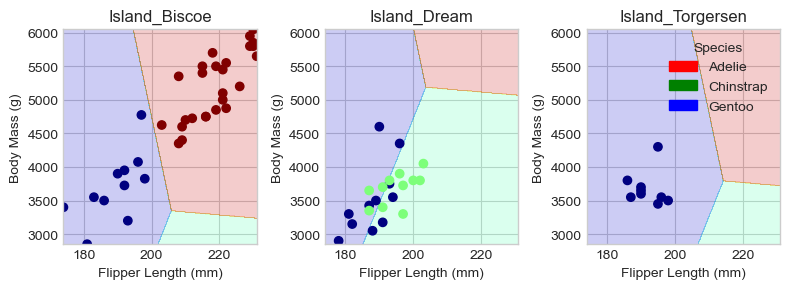
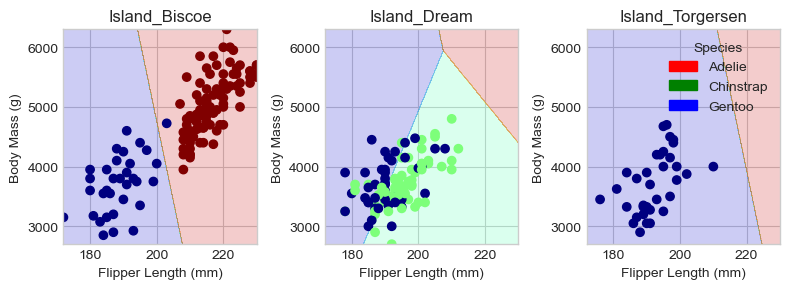
Rendered blog one

diff --git a/docs/posts/blog1/index.html b/docs/posts/blog1/index.html
@@ -129,7 +129,7 @@ background-size: cover;
 <link rel="stylesheet" href="../../styles.css">
 </head>
 
-<body class="nav-fixed fullcontent">
+<body class="nav-fixed">
 
 <div id="quarto-search-results"></div>
   <header id="quarto-header" class="headroom fixed-top quarto-banner">
@@ -204,26 +204,34 @@ background-size: cover;
   </header><div id="quarto-content" class="quarto-container page-columns page-rows-contents page-layout-article page-navbar">
 <!-- sidebar -->
 <!-- margin-sidebar -->
-    
+    <div id="quarto-margin-sidebar" class="sidebar margin-sidebar zindex-bottom">
+        
+    </div>
 <!-- main -->
-<main class="content quarto-banner-title-block" id="quarto-document-content">
+<main class="content quarto-banner-title-block page-columns page-full" id="quarto-document-content">
 
 
 
 
 
+<div class="quarto-figure quarto-figure-center page-columns page-full">
+<figure class="figure page-columns page-full">
+<p><img src="https://www.gabemednick.com/post/penguin/featured.png" class="img-fluid figure-img"></p>
+<figcaption class="margin-caption">Image source: @gabednick</figcaption>
+</figure>
+</div>
 <section id="abstract" class="level3">
 <h3 class="anchored" data-anchor-id="abstract">Abstract</h3>
-<p>In this blog post, I take the Palmer Penguins dataset and try to determine the best features to be used to determine the species of a penguin based on its measurements. Firstly, I create two tables…</p>
-<div id="cell-3" class="cell" data-execution_count="2">
+<p>In this blog post, I take the Palmer Penguins dataset and try to determine the best features to be used to determine the species of a penguin based on its measurements. Firstly, I create two figures and a table to analysize the relationships between features. Then I use sci-kit learns feature selection with chi-squared tests to pick 2 numerical features and 1 categorical feature. Then using those features, I train and test a logistic regression model. The model was fairly accurate but to understand the results better, I plot the decision regions and use a confusion matrix.</p>
+<div id="cell-2" class="cell" data-execution_count="18">
 <div class="sourceCode cell-code" id="cb1"><pre class="sourceCode python code-with-copy"><code class="sourceCode python"><span id="cb1-1"><a href="#cb1-1" aria-hidden="true" tabindex="-1"></a><span class="im">import</span> pandas <span class="im">as</span> pd</span>
 <span id="cb1-2"><a href="#cb1-2" aria-hidden="true" tabindex="-1"></a></span>
 <span id="cb1-3"><a href="#cb1-3" aria-hidden="true" tabindex="-1"></a>train_url <span class="op">=</span> <span class="st">"https://raw.githubusercontent.com/PhilChodrow/ml-notes/main/data/palmer-penguins/train.csv"</span></span>
 <span id="cb1-4"><a href="#cb1-4" aria-hidden="true" tabindex="-1"></a>train <span class="op">=</span> pd.read_csv(train_url)</span></code><button title="Copy to Clipboard" class="code-copy-button"><i class="bi"></i></button></pre></div>
 </div>
-<div id="cell-4" class="cell" data-execution_count="3">
+<div id="cell-3" class="cell" data-execution_count="19">
 <div class="sourceCode cell-code" id="cb2"><pre class="sourceCode python code-with-copy"><code class="sourceCode python"><span id="cb2-1"><a href="#cb2-1" aria-hidden="true" tabindex="-1"></a>train.head()</span></code><button title="Copy to Clipboard" class="code-copy-button"><i class="bi"></i></button></pre></div>
-<div class="cell-output cell-output-display" data-execution_count="3">
+<div class="cell-output cell-output-display" data-execution_count="19">
 <div>
 
 
@@ -361,7 +369,7 @@ background-size: cover;
 <section id="data-preparation" class="level3">
 <h3 class="anchored" data-anchor-id="data-preparation">Data Preparation</h3>
 <p>This is code from Professor Phil’s website. It removes the columns that we don’t use and NA values, converts the categorical feature columns into “one-hot encoded” 0-1 columns and saves the dataframe X_train. Also, “Species” is coded with the LabelEncoder and is saved as y_train.</p>
-<div id="cell-6" class="cell" data-execution_count="4">
+<div id="cell-5" class="cell" data-execution_count="20">
 <div class="sourceCode cell-code" id="cb3"><pre class="sourceCode python code-with-copy"><code class="sourceCode python"><span id="cb3-1"><a href="#cb3-1" aria-hidden="true" tabindex="-1"></a><span class="im">from</span> sklearn.preprocessing <span class="im">import</span> LabelEncoder</span>
 <span id="cb3-2"><a href="#cb3-2" aria-hidden="true" tabindex="-1"></a>le <span class="op">=</span> LabelEncoder()</span>
 <span id="cb3-3"><a href="#cb3-3" aria-hidden="true" tabindex="-1"></a>le.fit(train[<span class="st">"Species"</span>])</span>
@@ -378,9 +386,9 @@ background-size: cover;
 <span id="cb3-14"><a href="#cb3-14" aria-hidden="true" tabindex="-1"></a>X_train, y_train <span class="op">=</span> prepare_data(train)</span></code><button title="Copy to Clipboard" class="code-copy-button"><i class="bi"></i></button></pre></div>
 </div>
 <p>We can check what the columns look like now.</p>
-<div id="cell-8" class="cell" data-execution_count="143">
+<div id="cell-7" class="cell" data-execution_count="21">
 <div class="sourceCode cell-code" id="cb4"><pre class="sourceCode python code-with-copy"><code class="sourceCode python"><span id="cb4-1"><a href="#cb4-1" aria-hidden="true" tabindex="-1"></a>X_train.head()</span></code><button title="Copy to Clipboard" class="code-copy-button"><i class="bi"></i></button></pre></div>
-<div class="cell-output cell-output-display" data-execution_count="143">
+<div class="cell-output cell-output-display" data-execution_count="21">
 <div>
 
 
@@ -499,34 +507,40 @@ background-size: cover;
 </section>
 <section id="data-visualization" class="level3">
 <h3 class="anchored" data-anchor-id="data-visualization">Data Visualization</h3>
-<p>I created two graphs each 2 quantative columns and 1 qualitative columns. Plot 1 shows the relationship with the body mass and flipper length in penguins on different islands. Plot 2 shows the difference in Culmen Length and depth between male and female penguins.</p>
-<div id="cell-10" class="cell">
-<div class="sourceCode cell-code" id="cb5"><pre class="sourceCode python code-with-copy"><code class="sourceCode python"><span id="cb5-1"><a href="#cb5-1" aria-hidden="true" tabindex="-1"></a><span class="im">from</span> matplotlib <span class="im">import</span> pyplot <span class="im">as</span> plt</span>
-<span id="cb5-2"><a href="#cb5-2" aria-hidden="true" tabindex="-1"></a><span class="im">import</span> seaborn <span class="im">as</span> sns</span>
-<span id="cb5-3"><a href="#cb5-3" aria-hidden="true" tabindex="-1"></a>plt.style.use(<span class="st">'seaborn-v0_8-whitegrid'</span>)</span>
-<span id="cb5-4"><a href="#cb5-4" aria-hidden="true" tabindex="-1"></a></span>
-<span id="cb5-5"><a href="#cb5-5" aria-hidden="true" tabindex="-1"></a>fig, ax <span class="op">=</span> plt.subplots(<span class="dv">1</span>, <span class="dv">2</span>, figsize <span class="op">=</span> (<span class="dv">8</span>, <span class="fl">3.5</span>))</span>
-<span id="cb5-6"><a href="#cb5-6" aria-hidden="true" tabindex="-1"></a></span>
-<span id="cb5-7"><a href="#cb5-7" aria-hidden="true" tabindex="-1"></a><span class="co"># Get the unencoded columns for easier graphing.</span></span>
-<span id="cb5-8"><a href="#cb5-8" aria-hidden="true" tabindex="-1"></a>qual <span class="op">=</span> train[[<span class="st">"Island"</span>, <span class="st">"Sex"</span>]].dropna()</span>
-<span id="cb5-9"><a href="#cb5-9" aria-hidden="true" tabindex="-1"></a></span>
-<span id="cb5-10"><a href="#cb5-10" aria-hidden="true" tabindex="-1"></a>p1 <span class="op">=</span> sns.scatterplot(X_train, x <span class="op">=</span> <span class="st">"Body Mass (g)"</span>, y <span class="op">=</span> <span class="st">"Flipper Length (mm)"</span>, hue<span class="op">=</span> qual[<span class="st">"Island"</span>], ax <span class="op">=</span> ax[<span class="dv">0</span>])</span>
-<span id="cb5-11"><a href="#cb5-11" aria-hidden="true" tabindex="-1"></a>p2 <span class="op">=</span> sns.scatterplot(X_train, x <span class="op">=</span> <span class="st">"Culmen Length (mm)"</span>, y <span class="op">=</span> <span class="st">"Culmen Depth (mm)"</span>, hue<span class="op">=</span>y_train, ax <span class="op">=</span> ax[<span class="dv">1</span>])</span></code><button title="Copy to Clipboard" class="code-copy-button"><i class="bi"></i></button></pre></div>
+<p>I created two graphs each 2 quantative columns and 1 qualitative columns. Plot 1 shows the relationship with the body mass and flipper length between different penguin species. Plot 2 shows the difference in Culmen Length and depth across different penguin species.</p>
+<div id="cell-9" class="cell" data-execution_count="22">
+<div class="sourceCode cell-code" id="cb5"><pre class="sourceCode python code-with-copy"><code class="sourceCode python"><span id="cb5-1"><a href="#cb5-1" aria-hidden="true" tabindex="-1"></a><span class="co"># Get the unencoded columns for easier graphing.</span></span>
+<span id="cb5-2"><a href="#cb5-2" aria-hidden="true" tabindex="-1"></a>qual <span class="op">=</span> train[[<span class="st">"Island"</span>, <span class="st">"Sex"</span>, <span class="st">"Species"</span>]].dropna()</span>
+<span id="cb5-3"><a href="#cb5-3" aria-hidden="true" tabindex="-1"></a></span>
+<span id="cb5-4"><a href="#cb5-4" aria-hidden="true" tabindex="-1"></a><span class="co"># Shorten species label for the legend</span></span>
+<span id="cb5-5"><a href="#cb5-5" aria-hidden="true" tabindex="-1"></a>qual[<span class="st">"Species"</span>] <span class="op">=</span> qual[<span class="st">"Species"</span>].<span class="bu">apply</span>(<span class="kw">lambda</span> x: <span class="st">"Chinstrap"</span> <span class="cf">if</span> x <span class="op">==</span> <span class="st">"Chinstrap penguin (Pygoscelis antarctica)"</span> </span>
+<span id="cb5-6"><a href="#cb5-6" aria-hidden="true" tabindex="-1"></a>                                         <span class="cf">else</span> (<span class="st">"Gentoo"</span> <span class="cf">if</span> x <span class="op">==</span> <span class="st">"Gentoo penguin (Pygoscelis papua)"</span> </span>
+<span id="cb5-7"><a href="#cb5-7" aria-hidden="true" tabindex="-1"></a>                                               <span class="cf">else</span> <span class="st">"Adelie"</span>))</span></code><button title="Copy to Clipboard" class="code-copy-button"><i class="bi"></i></button></pre></div>
+</div>
+<div id="cell-10" class="cell" data-execution_count="23">
+<div class="sourceCode cell-code" id="cb6"><pre class="sourceCode python code-with-copy"><code class="sourceCode python"><span id="cb6-1"><a href="#cb6-1" aria-hidden="true" tabindex="-1"></a><span class="im">from</span> matplotlib <span class="im">import</span> pyplot <span class="im">as</span> plt</span>
+<span id="cb6-2"><a href="#cb6-2" aria-hidden="true" tabindex="-1"></a><span class="im">import</span> seaborn <span class="im">as</span> sns</span>
+<span id="cb6-3"><a href="#cb6-3" aria-hidden="true" tabindex="-1"></a>plt.style.use(<span class="st">'seaborn-v0_8-whitegrid'</span>)</span>
+<span id="cb6-4"><a href="#cb6-4" aria-hidden="true" tabindex="-1"></a></span>
+<span id="cb6-5"><a href="#cb6-5" aria-hidden="true" tabindex="-1"></a>fig, ax <span class="op">=</span> plt.subplots(<span class="dv">1</span>, <span class="dv">2</span>, figsize <span class="op">=</span> (<span class="dv">10</span>, <span class="dv">4</span>))</span>
+<span id="cb6-6"><a href="#cb6-6" aria-hidden="true" tabindex="-1"></a>   </span>
+<span id="cb6-7"><a href="#cb6-7" aria-hidden="true" tabindex="-1"></a>p1 <span class="op">=</span> sns.scatterplot(X_train, x <span class="op">=</span> <span class="st">"Body Mass (g)"</span>, y <span class="op">=</span> <span class="st">"Flipper Length (mm)"</span>, hue<span class="op">=</span>qual[<span class="st">"Species"</span>], ax <span class="op">=</span> ax[<span class="dv">0</span>])</span>
+<span id="cb6-8"><a href="#cb6-8" aria-hidden="true" tabindex="-1"></a>p2 <span class="op">=</span> sns.scatterplot(X_train, x <span class="op">=</span> <span class="st">"Culmen Length (mm)"</span>, y <span class="op">=</span> <span class="st">"Culmen Depth (mm)"</span>, hue<span class="op">=</span>qual[<span class="st">"Species"</span>], ax <span class="op">=</span> ax[<span class="dv">1</span>])</span></code><button title="Copy to Clipboard" class="code-copy-button"><i class="bi"></i></button></pre></div>
 <div class="cell-output cell-output-display">
 <div>
 <figure class="figure">
-<p><img src="index_files/figure-html/cell-6-output-1.png" class="img-fluid figure-img"></p>
+<p><img src="index_files/figure-html/cell-7-output-1.png" class="img-fluid figure-img"></p>
 </figure>
 </div>
 </div>
 </div>
-<p>Left side: Plot 1. The Penguins on Biscoe tend to be the biggest but also have the greatest variety in body mass and flipper length. This could mean the the Biscoe Island has a biggest penguin population and therefore have a greater variety of penguin species. Investigating into the Island_Biscoe feature might be worth modeling.</p>
-<p>Right side: Plot 2. Based on the graph, male penguins have slightly bigger culmens but not by much. Given how close the size between male and female culmen sizes are, these may be features worth modeling.</p>
+<p>Left side: Plot 1. The Gentoo penguins tend to be the biggest while Chinstrap and Adelie seem to have a great overlap in size. The Adelie seem to have slightly more variety in mass given a flipper length compared to Chinstrap.</p>
+<p>Right side: Plot 2. Based on the graph, the each specie of penguin seemed to have distinct beaks. The Adelie have greatest culmen depth but shortest length. The Gentoo have longer culmens but not as much depth and the Chinstrap lie in the middle with medium to large culmens.</p>
 <p>Now I create a summary table of the penguins measurements based on clutch completetion.</p>
-<div id="cell-13" class="cell" data-execution_count="22">
-<div class="sourceCode cell-code" id="cb6"><pre class="sourceCode python code-with-copy"><code class="sourceCode python"><span id="cb6-1"><a href="#cb6-1" aria-hidden="true" tabindex="-1"></a>table <span class="op">=</span> X_train[[<span class="st">"Clutch Completion_Yes"</span>, <span class="st">"Culmen Length (mm)"</span>, <span class="st">"Culmen Depth (mm)"</span>, <span class="st">"Flipper Length (mm)"</span>, <span class="st">"Body Mass (g)"</span>]]</span>
-<span id="cb6-2"><a href="#cb6-2" aria-hidden="true" tabindex="-1"></a>table.groupby(<span class="st">"Clutch Completion_Yes"</span>).aggregate([<span class="st">'min'</span>, <span class="st">'median'</span>, <span class="st">'max'</span>])</span></code><button title="Copy to Clipboard" class="code-copy-button"><i class="bi"></i></button></pre></div>
-<div class="cell-output cell-output-display" data-execution_count="22">
+<div id="cell-13" class="cell" data-execution_count="24">
+<div class="sourceCode cell-code" id="cb7"><pre class="sourceCode python code-with-copy"><code class="sourceCode python"><span id="cb7-1"><a href="#cb7-1" aria-hidden="true" tabindex="-1"></a>table <span class="op">=</span> X_train[[<span class="st">"Clutch Completion_Yes"</span>, <span class="st">"Culmen Length (mm)"</span>, <span class="st">"Culmen Depth (mm)"</span>, <span class="st">"Flipper Length (mm)"</span>, <span class="st">"Body Mass (g)"</span>]]</span>
+<span id="cb7-2"><a href="#cb7-2" aria-hidden="true" tabindex="-1"></a>table.groupby(<span class="st">"Clutch Completion_Yes"</span>).aggregate([<span class="st">'min'</span>, <span class="st">'median'</span>, <span class="st">'max'</span>])</span></code><button title="Copy to Clipboard" class="code-copy-button"><i class="bi"></i></button></pre></div>
+<div class="cell-output cell-output-display" data-execution_count="24">
 <div>
 
 
@@ -612,37 +626,37 @@ background-size: cover;
 <section id="feature-selection" class="level3">
 <h3 class="anchored" data-anchor-id="feature-selection">Feature selection</h3>
 <p>Here I use sci-kits SelectKBest to pick the 3 feautures I’m going to use for my model. I had to seperate feature selection because all 3 selected features would be numerical.</p>
-<div id="cell-16" class="cell" data-execution_count="118">
-<div class="sourceCode cell-code" id="cb7"><pre class="sourceCode python code-with-copy"><code class="sourceCode python"><span id="cb7-1"><a href="#cb7-1" aria-hidden="true" tabindex="-1"></a><span class="im">from</span> sklearn.feature_selection <span class="im">import</span> SelectKBest, chi2</span>
-<span id="cb7-2"><a href="#cb7-2" aria-hidden="true" tabindex="-1"></a></span>
-<span id="cb7-3"><a href="#cb7-3" aria-hidden="true" tabindex="-1"></a><span class="co"># Selecting 2 numerical feature</span></span>
-<span id="cb7-4"><a href="#cb7-4" aria-hidden="true" tabindex="-1"></a>quant <span class="op">=</span> [<span class="st">'Culmen Length (mm)'</span>, <span class="st">'Culmen Depth (mm)'</span>, <span class="st">'Flipper Length (mm)'</span>, <span class="st">'Body Mass (g)'</span>]</span>
-<span id="cb7-5"><a href="#cb7-5" aria-hidden="true" tabindex="-1"></a>sel1 <span class="op">=</span> SelectKBest(chi2, k<span class="op">=</span><span class="dv">2</span>)</span>
-<span id="cb7-6"><a href="#cb7-6" aria-hidden="true" tabindex="-1"></a>sel1.fit_transform(X_train[quant], y_train)</span>
-<span id="cb7-7"><a href="#cb7-7" aria-hidden="true" tabindex="-1"></a>f1 <span class="op">=</span> sel1.get_feature_names_out()</span>
-<span id="cb7-8"><a href="#cb7-8" aria-hidden="true" tabindex="-1"></a></span>
-<span id="cb7-9"><a href="#cb7-9" aria-hidden="true" tabindex="-1"></a><span class="co"># Selecting 1 categorical feature</span></span>
-<span id="cb7-10"><a href="#cb7-10" aria-hidden="true" tabindex="-1"></a>qual <span class="op">=</span> [<span class="st">"Clutch Completion_Yes"</span>, <span class="st">"Clutch Completion_No"</span>, <span class="st">"Island_Biscoe"</span>, <span class="st">"Island_Dream"</span>, <span class="st">"Island_Torgersen"</span>, <span class="st">"Sex_FEMALE"</span>, <span class="st">"Sex_MALE"</span>]</span>
-<span id="cb7-11"><a href="#cb7-11" aria-hidden="true" tabindex="-1"></a>sel2 <span class="op">=</span> SelectKBest(chi2, k<span class="op">=</span><span class="dv">1</span>)</span>
-<span id="cb7-12"><a href="#cb7-12" aria-hidden="true" tabindex="-1"></a>sel2.fit_transform(X_train[qual], y_train)</span>
-<span id="cb7-13"><a href="#cb7-13" aria-hidden="true" tabindex="-1"></a>f2 <span class="op">=</span> sel2.get_feature_names_out()</span></code><button title="Copy to Clipboard" class="code-copy-button"><i class="bi"></i></button></pre></div>
+<div id="cell-16" class="cell" data-execution_count="25">
+<div class="sourceCode cell-code" id="cb8"><pre class="sourceCode python code-with-copy"><code class="sourceCode python"><span id="cb8-1"><a href="#cb8-1" aria-hidden="true" tabindex="-1"></a><span class="im">from</span> sklearn.feature_selection <span class="im">import</span> SelectKBest, chi2</span>
+<span id="cb8-2"><a href="#cb8-2" aria-hidden="true" tabindex="-1"></a></span>
+<span id="cb8-3"><a href="#cb8-3" aria-hidden="true" tabindex="-1"></a><span class="co"># Selecting 2 numerical feature</span></span>
+<span id="cb8-4"><a href="#cb8-4" aria-hidden="true" tabindex="-1"></a>quant <span class="op">=</span> [<span class="st">'Culmen Length (mm)'</span>, <span class="st">'Culmen Depth (mm)'</span>, <span class="st">'Flipper Length (mm)'</span>, <span class="st">'Body Mass (g)'</span>]</span>
+<span id="cb8-5"><a href="#cb8-5" aria-hidden="true" tabindex="-1"></a>sel1 <span class="op">=</span> SelectKBest(chi2, k<span class="op">=</span><span class="dv">2</span>)</span>
+<span id="cb8-6"><a href="#cb8-6" aria-hidden="true" tabindex="-1"></a>sel1.fit_transform(X_train[quant], y_train)</span>
+<span id="cb8-7"><a href="#cb8-7" aria-hidden="true" tabindex="-1"></a>f1 <span class="op">=</span> sel1.get_feature_names_out()</span>
+<span id="cb8-8"><a href="#cb8-8" aria-hidden="true" tabindex="-1"></a></span>
+<span id="cb8-9"><a href="#cb8-9" aria-hidden="true" tabindex="-1"></a><span class="co"># Selecting 1 categorical feature</span></span>
+<span id="cb8-10"><a href="#cb8-10" aria-hidden="true" tabindex="-1"></a>qual <span class="op">=</span> [<span class="st">"Clutch Completion_Yes"</span>, <span class="st">"Clutch Completion_No"</span>, <span class="st">"Island_Biscoe"</span>, <span class="st">"Island_Dream"</span>, <span class="st">"Island_Torgersen"</span>, <span class="st">"Sex_FEMALE"</span>, <span class="st">"Sex_MALE"</span>]</span>
+<span id="cb8-11"><a href="#cb8-11" aria-hidden="true" tabindex="-1"></a>sel2 <span class="op">=</span> SelectKBest(chi2, k<span class="op">=</span><span class="dv">1</span>)</span>
+<span id="cb8-12"><a href="#cb8-12" aria-hidden="true" tabindex="-1"></a>sel2.fit_transform(X_train[qual], y_train)</span>
+<span id="cb8-13"><a href="#cb8-13" aria-hidden="true" tabindex="-1"></a>f2 <span class="op">=</span> sel2.get_feature_names_out()</span></code><button title="Copy to Clipboard" class="code-copy-button"><i class="bi"></i></button></pre></div>
 </div>
 <p>This function is so that I can get all the variations of the categorical feature.</p>
-<div id="cell-18" class="cell" data-execution_count="119">
-<div class="sourceCode cell-code" id="cb8"><pre class="sourceCode python code-with-copy"><code class="sourceCode python"><span id="cb8-1"><a href="#cb8-1" aria-hidden="true" tabindex="-1"></a><span class="kw">def</span> get_feat(f1, cat):</span>
-<span id="cb8-2"><a href="#cb8-2" aria-hidden="true" tabindex="-1"></a>    cols <span class="op">=</span> <span class="bu">list</span>(f1)</span>
-<span id="cb8-3"><a href="#cb8-3" aria-hidden="true" tabindex="-1"></a>    clutch <span class="op">=</span> [<span class="st">"Clutch Completion_Yes"</span>, <span class="st">"Clutch Completion_No"</span>]</span>
-<span id="cb8-4"><a href="#cb8-4" aria-hidden="true" tabindex="-1"></a>    island <span class="op">=</span> [<span class="st">"Island_Biscoe"</span>, <span class="st">"Island_Dream"</span>, <span class="st">"Island_Torgersen"</span>]</span>
-<span id="cb8-5"><a href="#cb8-5" aria-hidden="true" tabindex="-1"></a>    sex <span class="op">=</span> [<span class="st">"Sex_FEMALE"</span>, <span class="st">"Sex_MALE"</span>]</span>
-<span id="cb8-6"><a href="#cb8-6" aria-hidden="true" tabindex="-1"></a>    </span>
-<span id="cb8-7"><a href="#cb8-7" aria-hidden="true" tabindex="-1"></a>    <span class="cf">if</span> cat <span class="kw">in</span> clutch: <span class="cf">return</span> cols <span class="op">+</span> clutch</span>
-<span id="cb8-8"><a href="#cb8-8" aria-hidden="true" tabindex="-1"></a>    <span class="cf">if</span> cat <span class="kw">in</span> island: <span class="cf">return</span> cols <span class="op">+</span> island</span>
-<span id="cb8-9"><a href="#cb8-9" aria-hidden="true" tabindex="-1"></a>    <span class="cf">if</span> cat <span class="kw">in</span> sex: <span class="cf">return</span> cols <span class="op">+</span> sex</span></code><button title="Copy to Clipboard" class="code-copy-button"><i class="bi"></i></button></pre></div>
+<div id="cell-18" class="cell" data-execution_count="26">
+<div class="sourceCode cell-code" id="cb9"><pre class="sourceCode python code-with-copy"><code class="sourceCode python"><span id="cb9-1"><a href="#cb9-1" aria-hidden="true" tabindex="-1"></a><span class="kw">def</span> get_feat(f1, cat):</span>
+<span id="cb9-2"><a href="#cb9-2" aria-hidden="true" tabindex="-1"></a>    cols <span class="op">=</span> <span class="bu">list</span>(f1)</span>
+<span id="cb9-3"><a href="#cb9-3" aria-hidden="true" tabindex="-1"></a>    clutch <span class="op">=</span> [<span class="st">"Clutch Completion_Yes"</span>, <span class="st">"Clutch Completion_No"</span>]</span>
+<span id="cb9-4"><a href="#cb9-4" aria-hidden="true" tabindex="-1"></a>    island <span class="op">=</span> [<span class="st">"Island_Biscoe"</span>, <span class="st">"Island_Dream"</span>, <span class="st">"Island_Torgersen"</span>]</span>
+<span id="cb9-5"><a href="#cb9-5" aria-hidden="true" tabindex="-1"></a>    sex <span class="op">=</span> [<span class="st">"Sex_FEMALE"</span>, <span class="st">"Sex_MALE"</span>]</span>
+<span id="cb9-6"><a href="#cb9-6" aria-hidden="true" tabindex="-1"></a>    </span>
+<span id="cb9-7"><a href="#cb9-7" aria-hidden="true" tabindex="-1"></a>    <span class="cf">if</span> cat <span class="kw">in</span> clutch: <span class="cf">return</span> cols <span class="op">+</span> clutch</span>
+<span id="cb9-8"><a href="#cb9-8" aria-hidden="true" tabindex="-1"></a>    <span class="cf">if</span> cat <span class="kw">in</span> island: <span class="cf">return</span> cols <span class="op">+</span> island</span>
+<span id="cb9-9"><a href="#cb9-9" aria-hidden="true" tabindex="-1"></a>    <span class="cf">if</span> cat <span class="kw">in</span> sex: <span class="cf">return</span> cols <span class="op">+</span> sex</span></code><button title="Copy to Clipboard" class="code-copy-button"><i class="bi"></i></button></pre></div>
 </div>
-<div id="cell-19" class="cell" data-execution_count="121">
-<div class="sourceCode cell-code" id="cb9"><pre class="sourceCode python code-with-copy"><code class="sourceCode python"><span id="cb9-1"><a href="#cb9-1" aria-hidden="true" tabindex="-1"></a>cols <span class="op">=</span> get_feat(f1, f2[<span class="dv">0</span>])</span>
-<span id="cb9-2"><a href="#cb9-2" aria-hidden="true" tabindex="-1"></a>cols</span></code><button title="Copy to Clipboard" class="code-copy-button"><i class="bi"></i></button></pre></div>
-<div class="cell-output cell-output-display" data-execution_count="121">
+<div id="cell-19" class="cell" data-execution_count="27">
+<div class="sourceCode cell-code" id="cb10"><pre class="sourceCode python code-with-copy"><code class="sourceCode python"><span id="cb10-1"><a href="#cb10-1" aria-hidden="true" tabindex="-1"></a>cols <span class="op">=</span> get_feat(f1, f2[<span class="dv">0</span>])</span>
+<span id="cb10-2"><a href="#cb10-2" aria-hidden="true" tabindex="-1"></a>cols</span></code><button title="Copy to Clipboard" class="code-copy-button"><i class="bi"></i></button></pre></div>
+<div class="cell-output cell-output-display" data-execution_count="27">
 <pre><code>['Flipper Length (mm)',
  'Body Mass (g)',
  'Island_Biscoe',
@@ -653,37 +667,30 @@ background-size: cover;
 </section>
 <section id="training" class="level3">
 <h3 class="anchored" data-anchor-id="training">Training</h3>
-<p>The model is trained on the data with features determined from above. I had to increase the max iterations to 1000 because I would recieve for the default amount.</p>
-<div id="cell-21" class="cell">
-<div class="sourceCode cell-code" id="cb11"><pre class="sourceCode python code-with-copy"><code class="sourceCode python"><span id="cb11-1"><a href="#cb11-1" aria-hidden="true" tabindex="-1"></a><span class="im">from</span> sklearn.linear_model <span class="im">import</span> LogisticRegression</span>
-<span id="cb11-2"><a href="#cb11-2" aria-hidden="true" tabindex="-1"></a></span>
-<span id="cb11-3"><a href="#cb11-3" aria-hidden="true" tabindex="-1"></a>LR <span class="op">=</span> LogisticRegression(max_iter<span class="op">=</span><span class="dv">1000</span>)</span>
-<span id="cb11-4"><a href="#cb11-4" aria-hidden="true" tabindex="-1"></a>LR.fit(X_train[cols], y_train)</span>
-<span id="cb11-5"><a href="#cb11-5" aria-hidden="true" tabindex="-1"></a>LR.score(X_train[cols], y_train)</span></code><button title="Copy to Clipboard" class="code-copy-button"><i class="bi"></i></button></pre></div>
-<div class="cell-output cell-output-stderr">
-<pre><code>/opt/anaconda3/envs/ml-0451/lib/python3.9/site-packages/sklearn/linear_model/_logistic.py:465: ConvergenceWarning: lbfgs failed to converge (status=1):
-STOP: TOTAL NO. of ITERATIONS REACHED LIMIT.
-
-Increase the number of iterations (max_iter) or scale the data as shown in:
-    https://scikit-learn.org/stable/modules/preprocessing.html
-Please also refer to the documentation for alternative solver options:
-    https://scikit-learn.org/stable/modules/linear_model.html#logistic-regression
-  n_iter_i = _check_optimize_result(</code></pre>
-</div>
-<div class="cell-output cell-output-display" data-execution_count="125">
-<pre><code>0.89453125</code></pre>
+<p>The model is trained on the data with features determined from above. I had to use StandardScalar to avoid a convergence error.</p>
+<div id="cell-21" class="cell" data-execution_count="28">
+<div class="sourceCode cell-code" id="cb12"><pre class="sourceCode python code-with-copy"><code class="sourceCode python"><span id="cb12-1"><a href="#cb12-1" aria-hidden="true" tabindex="-1"></a><span class="im">from</span> sklearn.linear_model <span class="im">import</span> LogisticRegression</span>
+<span id="cb12-2"><a href="#cb12-2" aria-hidden="true" tabindex="-1"></a><span class="im">from</span> sklearn.pipeline <span class="im">import</span> make_pipeline</span>
+<span id="cb12-3"><a href="#cb12-3" aria-hidden="true" tabindex="-1"></a><span class="im">from</span> sklearn.preprocessing <span class="im">import</span> StandardScaler</span>
+<span id="cb12-4"><a href="#cb12-4" aria-hidden="true" tabindex="-1"></a></span>
+<span id="cb12-5"><a href="#cb12-5" aria-hidden="true" tabindex="-1"></a></span>
+<span id="cb12-6"><a href="#cb12-6" aria-hidden="true" tabindex="-1"></a>pipe <span class="op">=</span> make_pipeline(StandardScaler(), LogisticRegression())</span>
+<span id="cb12-7"><a href="#cb12-7" aria-hidden="true" tabindex="-1"></a>pipe.fit(X_train[cols], y_train)</span>
+<span id="cb12-8"><a href="#cb12-8" aria-hidden="true" tabindex="-1"></a>pipe.score(X_train[cols], y_train)</span></code><button title="Copy to Clipboard" class="code-copy-button"><i class="bi"></i></button></pre></div>
+<div class="cell-output cell-output-display" data-execution_count="28">
+<pre><code>0.8984375</code></pre>
 </div>
 </div>
 </section>
 <section id="testing" class="level3">
 <h3 class="anchored" data-anchor-id="testing">Testing</h3>
-<div id="cell-23" class="cell" data-execution_count="126">
+<div id="cell-23" class="cell" data-execution_count="29">
 <div class="sourceCode cell-code" id="cb14"><pre class="sourceCode python code-with-copy"><code class="sourceCode python"><span id="cb14-1"><a href="#cb14-1" aria-hidden="true" tabindex="-1"></a>test_url <span class="op">=</span> <span class="st">"https://raw.githubusercontent.com/PhilChodrow/ml-notes/main/data/palmer-penguins/test.csv"</span></span>
 <span id="cb14-2"><a href="#cb14-2" aria-hidden="true" tabindex="-1"></a>test <span class="op">=</span> pd.read_csv(test_url)</span>
 <span id="cb14-3"><a href="#cb14-3" aria-hidden="true" tabindex="-1"></a></span>
 <span id="cb14-4"><a href="#cb14-4" aria-hidden="true" tabindex="-1"></a>X_test, y_test <span class="op">=</span> prepare_data(test)</span>
-<span id="cb14-5"><a href="#cb14-5" aria-hidden="true" tabindex="-1"></a>LR.score(X_test[cols], y_test)</span></code><button title="Copy to Clipboard" class="code-copy-button"><i class="bi"></i></button></pre></div>
-<div class="cell-output cell-output-display" data-execution_count="126">
+<span id="cb14-5"><a href="#cb14-5" aria-hidden="true" tabindex="-1"></a>pipe.score(X_test[cols], y_test)</span></code><button title="Copy to Clipboard" class="code-copy-button"><i class="bi"></i></button></pre></div>
+<div class="cell-output cell-output-display" data-execution_count="29">
 <pre><code>0.8970588235294118</code></pre>
 </div>
 </div>
@@ -691,11 +698,11 @@ Please also refer to the documentation for alternative solver options:
 <section id="plotting-decision-regions" class="level3">
 <h3 class="anchored" data-anchor-id="plotting-decision-regions">Plotting Decision Regions</h3>
 <p>Most of this code is adapted from Prof.&nbsp;Phil’s website.</p>
-<div id="cell-25" class="cell" data-execution_count="111">
+<div id="cell-25" class="cell" data-execution_count="30">
 <div class="sourceCode cell-code" id="cb16"><pre class="sourceCode python code-with-copy"><code class="sourceCode python"><span id="cb16-1"><a href="#cb16-1" aria-hidden="true" tabindex="-1"></a><span class="im">from</span> matplotlib <span class="im">import</span> pyplot <span class="im">as</span> plt</span>
 <span id="cb16-2"><a href="#cb16-2" aria-hidden="true" tabindex="-1"></a><span class="im">import</span> numpy <span class="im">as</span> np</span></code><button title="Copy to Clipboard" class="code-copy-button"><i class="bi"></i></button></pre></div>
 </div>
-<div id="cell-26" class="cell" data-execution_count="128">
+<div id="cell-26" class="cell" data-execution_count="31">
 <div class="sourceCode cell-code" id="cb17"><pre class="sourceCode python code-with-copy"><code class="sourceCode python"><span id="cb17-1"><a href="#cb17-1" aria-hidden="true" tabindex="-1"></a><span class="im">from</span> matplotlib.patches <span class="im">import</span> Patch</span>
 <span id="cb17-2"><a href="#cb17-2" aria-hidden="true" tabindex="-1"></a></span>
 <span id="cb17-3"><a href="#cb17-3" aria-hidden="true" tabindex="-1"></a><span class="kw">def</span> plot_regions(model, X, y):</span>
@@ -749,19 +756,8 @@ Please also refer to the documentation for alternative solver options:
 <span id="cb17-51"><a href="#cb17-51" aria-hidden="true" tabindex="-1"></a>      plt.tight_layout()</span></code><button title="Copy to Clipboard" class="code-copy-button"><i class="bi"></i></button></pre></div>
 </div>
 <p>Regions for training set:</p>
-<div id="cell-28" class="cell" data-execution_count="129">
-<div class="sourceCode cell-code" id="cb18"><pre class="sourceCode python code-with-copy"><code class="sourceCode python"><span id="cb18-1"><a href="#cb18-1" aria-hidden="true" tabindex="-1"></a>plot_regions(LR, X_train[cols], y_train)</span></code><button title="Copy to Clipboard" class="code-copy-button"><i class="bi"></i></button></pre></div>
-<div class="cell-output cell-output-display">
-<div>
-<figure class="figure">
-<p><img src="index_files/figure-html/cell-15-output-1.png" class="img-fluid figure-img"></p>
-</figure>
-</div>
-</div>
-</div>
-<p>Regions for testing set:</p>
-<div id="cell-30" class="cell" data-execution_count="133">
-<div class="sourceCode cell-code" id="cb19"><pre class="sourceCode python code-with-copy"><code class="sourceCode python"><span id="cb19-1"><a href="#cb19-1" aria-hidden="true" tabindex="-1"></a>plot_regions(LR, X_test[cols], y_test)</span></code><button title="Copy to Clipboard" class="code-copy-button"><i class="bi"></i></button></pre></div>
+<div id="cell-28" class="cell" data-execution_count="32">
+<div class="sourceCode cell-code" id="cb18"><pre class="sourceCode python code-with-copy"><code class="sourceCode python"><span id="cb18-1"><a href="#cb18-1" aria-hidden="true" tabindex="-1"></a>plot_regions(pipe, X_train[cols], y_train)</span></code><button title="Copy to Clipboard" class="code-copy-button"><i class="bi"></i></button></pre></div>
 <div class="cell-output cell-output-display">
 <div>
 <figure class="figure">
@@ -770,18 +766,34 @@ Please also refer to the documentation for alternative solver options:
 </div>
 </div>
 </div>
-<p>Confustion Matrix</p>
-<div id="cell-32" class="cell" data-execution_count="132">
+<p>Regions for testing set:</p>
+<div id="cell-30" class="cell" data-execution_count="33">
+<div class="sourceCode cell-code" id="cb19"><pre class="sourceCode python code-with-copy"><code class="sourceCode python"><span id="cb19-1"><a href="#cb19-1" aria-hidden="true" tabindex="-1"></a>plot_regions(pipe, X_test[cols], y_test)</span></code><button title="Copy to Clipboard" class="code-copy-button"><i class="bi"></i></button></pre></div>
+<div class="cell-output cell-output-display">
+<div>
+<figure class="figure">
+<p><img src="index_files/figure-html/cell-17-output-1.png" class="img-fluid figure-img"></p>
+</figure>
+</div>
+</div>
+</div>
+<p>Confusion Matrix</p>
+<div id="cell-32" class="cell" data-execution_count="34">
 <div class="sourceCode cell-code" id="cb20"><pre class="sourceCode python code-with-copy"><code class="sourceCode python"><span id="cb20-1"><a href="#cb20-1" aria-hidden="true" tabindex="-1"></a><span class="im">from</span> sklearn.metrics <span class="im">import</span> confusion_matrix</span>
 <span id="cb20-2"><a href="#cb20-2" aria-hidden="true" tabindex="-1"></a></span>
-<span id="cb20-3"><a href="#cb20-3" aria-hidden="true" tabindex="-1"></a>y_test_pred <span class="op">=</span> LR.predict(X_test[cols])</span>
+<span id="cb20-3"><a href="#cb20-3" aria-hidden="true" tabindex="-1"></a>y_test_pred <span class="op">=</span> pipe.predict(X_test[cols])</span>
 <span id="cb20-4"><a href="#cb20-4" aria-hidden="true" tabindex="-1"></a>confusion_matrix(y_test, y_test_pred)</span></code><button title="Copy to Clipboard" class="code-copy-button"><i class="bi"></i></button></pre></div>
-<div class="cell-output cell-output-display" data-execution_count="132">
-<pre><code>array([[27,  4,  0],
-       [ 3,  8,  0],
+<div class="cell-output cell-output-display" data-execution_count="34">
+<pre><code>array([[26,  5,  0],
+       [ 2,  9,  0],
        [ 0,  0, 26]])</code></pre>
 </div>
 </div>
+</section>
+<section id="discussion" class="level3">
+<h3 class="anchored" data-anchor-id="discussion">Discussion</h3>
+<p>The model had very similar training and testing accuracy of 0.89. This means the model is fairly solid at predicting penguins based on the flipper lenth, body mass and island. Based on the decision regions, the model struggled to correctly determine the difference between Chinstrap and Gentoo on the Island Dream. It seems that those 2 species are of similar sizes and therefore are hard to differentiate.</p>
+<p>During this blog post, the two biggest things were I learned about different tools for feature selection and the need to normalize data before putting it in a model. In terms of feature selection, sci-kit learn provides various methods whether variance, statistical tests or recursion. I went with statistical test as it seemed more thorough then determining a random variance yet not as complex as the recursion. For normalizing data, I learned how to deal with a convergence error when trainig a model. Through some investigation I came to understand I recieved that error because some of the features may not normally distributed. I used sci-kit recommended scaling function to standardize the data and everything was fine after that. Finally, I got more practice with modifing and selecting data from dataframes in general.</p>
 
 
 </section>

diff --git a/docs/index.html b/docs/index.html
@@ -223,10 +223,10 @@ window.Quarto = {
 
 <div class="quarto-listing quarto-listing-container-default" id="listing-listing">
 <div class="list quarto-listing-default">
-<div class="quarto-post image-right" data-index="0" data-listing-date-sort="1739336400000" data-listing-file-modified-sort="1739979177665" data-listing-date-modified-sort="NaN" data-listing-reading-time-sort="3" data-listing-word-count-sort="411">
+<div class="quarto-post image-right" data-index="0" data-listing-date-sort="1739336400000" data-listing-file-modified-sort="1740099394639" data-listing-date-modified-sort="NaN" data-listing-reading-time-sort="4" data-listing-word-count-sort="663">
 <div class="thumbnail">
 <p><a href="./posts/blog1/index.html" class="no-external"></a></p><a href="./posts/blog1/index.html" class="no-external">
-<p><img loading="lazy" src="./posts/blog1/image.jpg" class="thumbnail-image"></p>
+<p><img loading="lazy" src="./posts/blog1/penguins.jpg" class="thumbnail-image"></p>
 </a><p><a href="./posts/blog1/index.html" class="no-external"></a></p>
 </div>
 <div class="body">
@@ -251,7 +251,7 @@ Emmanuel Towner
 </a>
 </div>
 </div>
-<div class="quarto-post image-right" data-index="1" data-listing-date-sort="1678424400000" data-listing-file-modified-sort="1739412057474" data-listing-date-modified-sort="NaN" data-listing-reading-time-sort="3" data-listing-word-count-sort="441">
+<div class="quarto-post image-right" data-index="1" data-listing-date-sort="1678424400000" data-listing-file-modified-sort="1740072054340" data-listing-date-modified-sort="NaN" data-listing-reading-time-sort="3" data-listing-word-count-sort="441">
 <div class="thumbnail">
 <p><a href="./posts/new-test-post/index.html" class="no-external"></a></p><a href="./posts/new-test-post/index.html" class="no-external">
 <p><img loading="lazy" src="./posts/new-test-post/image.jpg" class="thumbnail-image"></p>

diff --git a/docs/about.html b/docs/about.html
@@ -144,7 +144,7 @@ background-size: cover;
   <img src="profile.jpg" class="about-image
   round " style="height: 15em; width: 15em;">
  <main class="content quarto-banner-title-block" id="quarto-document-content">
-<p>About this blog</p>
+<p>This is Emmanuel’s blog</p>
 
 
 </main> 
